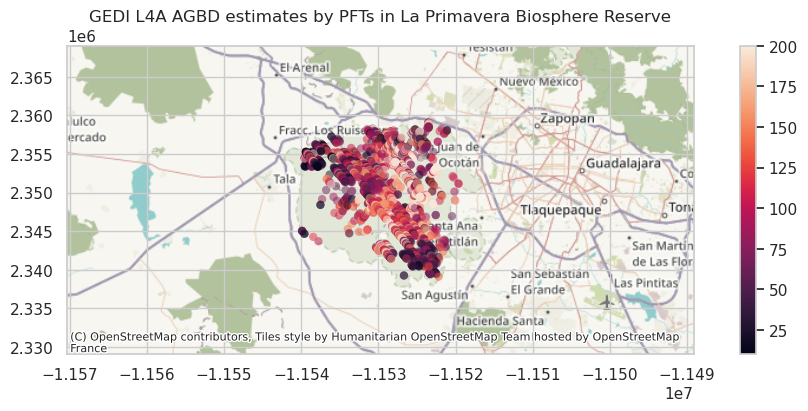
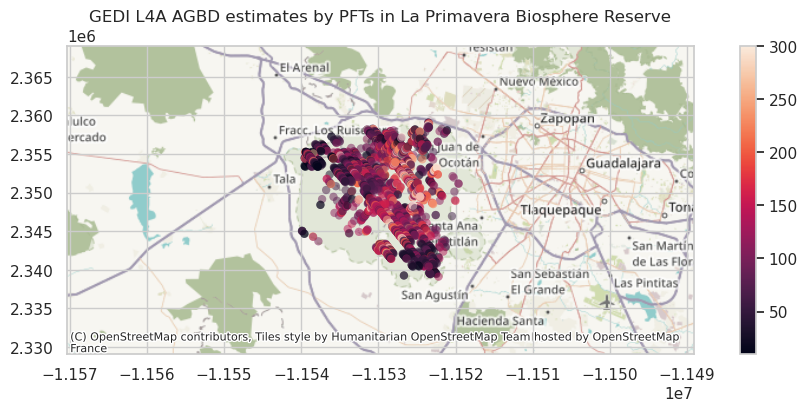
Built site for gh-pages

diff --git a/tutorials/science/gedi-l4a-agbd.html b/tutorials/science/gedi-l4a-agbd.html
@@ -402,18 +402,17 @@ pre > code.sourceCode > span > a:first-child::before { text-decoration: underlin
 <section id="import-modules" class="level2">
 <h2 class="anchored" data-anchor-id="import-modules">Import Modules</h2>
 <div class="cell" data-tags="[]" data-execution_count="1">
-<div class="sourceCode cell-code" id="cb2"><pre class="sourceCode python code-with-copy"><code class="sourceCode python"><span id="cb2-1"><a href="#cb2-1" aria-hidden="true" tabindex="-1"></a><span class="co"># import python modules</span></span>
-<span id="cb2-2"><a href="#cb2-2" aria-hidden="true" tabindex="-1"></a><span class="im">import</span> h5py</span>
-<span id="cb2-3"><a href="#cb2-3" aria-hidden="true" tabindex="-1"></a><span class="im">import</span> requests <span class="im">as</span> re</span>
-<span id="cb2-4"><a href="#cb2-4" aria-hidden="true" tabindex="-1"></a><span class="im">import</span> pandas <span class="im">as</span> pd</span>
-<span id="cb2-5"><a href="#cb2-5" aria-hidden="true" tabindex="-1"></a><span class="im">import</span> geopandas <span class="im">as</span> gpd</span>
-<span id="cb2-6"><a href="#cb2-6" aria-hidden="true" tabindex="-1"></a><span class="im">import</span> contextily <span class="im">as</span> ctx</span>
-<span id="cb2-7"><a href="#cb2-7" aria-hidden="true" tabindex="-1"></a><span class="im">import</span> matplotlib.pyplot <span class="im">as</span> plt</span>
-<span id="cb2-8"><a href="#cb2-8" aria-hidden="true" tabindex="-1"></a><span class="im">from</span> datetime <span class="im">import</span> datetime</span>
-<span id="cb2-9"><a href="#cb2-9" aria-hidden="true" tabindex="-1"></a><span class="im">from</span> glob <span class="im">import</span> glob</span>
-<span id="cb2-10"><a href="#cb2-10" aria-hidden="true" tabindex="-1"></a><span class="im">from</span> harmony <span class="im">import</span> Client, Collection, Environment, Request</span>
-<span id="cb2-11"><a href="#cb2-11" aria-hidden="true" tabindex="-1"></a><span class="im">import</span> seaborn <span class="im">as</span> sns</span>
-<span id="cb2-12"><a href="#cb2-12" aria-hidden="true" tabindex="-1"></a>sns.<span class="bu">set</span>(style<span class="op">=</span><span class="st">'whitegrid'</span>)</span></code><button title="Copy to Clipboard" class="code-copy-button"><i class="bi"></i></button></pre></div>
+<div class="sourceCode cell-code" id="cb2"><pre class="sourceCode python code-with-copy"><code class="sourceCode python"><span id="cb2-1"><a href="#cb2-1" aria-hidden="true" tabindex="-1"></a><span class="im">import</span> h5py</span>
+<span id="cb2-2"><a href="#cb2-2" aria-hidden="true" tabindex="-1"></a><span class="im">import</span> requests <span class="im">as</span> re</span>
+<span id="cb2-3"><a href="#cb2-3" aria-hidden="true" tabindex="-1"></a><span class="im">import</span> pandas <span class="im">as</span> pd</span>
+<span id="cb2-4"><a href="#cb2-4" aria-hidden="true" tabindex="-1"></a><span class="im">import</span> geopandas <span class="im">as</span> gpd</span>
+<span id="cb2-5"><a href="#cb2-5" aria-hidden="true" tabindex="-1"></a><span class="im">import</span> contextily <span class="im">as</span> ctx</span>
+<span id="cb2-6"><a href="#cb2-6" aria-hidden="true" tabindex="-1"></a><span class="im">import</span> matplotlib.pyplot <span class="im">as</span> plt</span>
+<span id="cb2-7"><a href="#cb2-7" aria-hidden="true" tabindex="-1"></a><span class="im">from</span> datetime <span class="im">import</span> datetime</span>
+<span id="cb2-8"><a href="#cb2-8" aria-hidden="true" tabindex="-1"></a><span class="im">from</span> glob <span class="im">import</span> glob</span>
+<span id="cb2-9"><a href="#cb2-9" aria-hidden="true" tabindex="-1"></a><span class="im">from</span> harmony <span class="im">import</span> Client, Collection, Environment, Request</span>
+<span id="cb2-10"><a href="#cb2-10" aria-hidden="true" tabindex="-1"></a><span class="im">import</span> seaborn <span class="im">as</span> sns</span>
+<span id="cb2-11"><a href="#cb2-11" aria-hidden="true" tabindex="-1"></a>sns.<span class="bu">set</span>(style<span class="op">=</span><span class="st">'whitegrid'</span>)</span></code><button title="Copy to Clipboard" class="code-copy-button"><i class="bi"></i></button></pre></div>
 </div>
 </section>
 <section id="authentication" class="level2">
@@ -441,7 +440,7 @@ pre > code.sourceCode > span > a:first-child::before { text-decoration: underlin
 <div class="cell" data-tags="[]" data-execution_count="4">
 <div class="sourceCode cell-code" id="cb7"><pre class="sourceCode python code-with-copy"><code class="sourceCode python"><span id="cb7-1"><a href="#cb7-1" aria-hidden="true" tabindex="-1"></a>collection <span class="op">=</span> Collection(<span class="bu">id</span><span class="op">=</span>concept_id)</span>
 <span id="cb7-2"><a href="#cb7-2" aria-hidden="true" tabindex="-1"></a><span class="co"># gedi beams</span></span>
-<span id="cb7-3"><a href="#cb7-3" aria-hidden="true" tabindex="-1"></a>beams <span class="op">=</span> [<span class="st">'BEAM0000'</span>, <span class="st">'BEAM0001'</span>, <span class="st">'BEAM0010'</span>, <span class="st">'BEAM0011'</span>, <span class="st">'BEAM0101'</span>,<span class="st">'BEAM0110'</span>,<span class="st">'BEAM1000'</span>,<span class="st">'BEAM1011'</span>]</span>
+<span id="cb7-3"><a href="#cb7-3" aria-hidden="true" tabindex="-1"></a>beams <span class="op">=</span> [<span class="st">'BEAM0000'</span>, <span class="st">'BEAM0001'</span>, <span class="st">'BEAM0010'</span>, <span class="st">'BEAM0011'</span>, <span class="st">'BEAM0101'</span>, <span class="st">'BEAM0110'</span>, <span class="st">'BEAM1000'</span>, <span class="st">'BEAM1011'</span>]</span>
 <span id="cb7-4"><a href="#cb7-4" aria-hidden="true" tabindex="-1"></a><span class="co"># gedi variables</span></span>
 <span id="cb7-5"><a href="#cb7-5" aria-hidden="true" tabindex="-1"></a><span class="bu">vars</span> <span class="op">=</span> [<span class="st">'agbd'</span>, <span class="st">'l4_quality_flag'</span>, <span class="st">'elev_lowestmode'</span>, <span class="st">'land_cover_data/pft_class'</span>]</span>
 <span id="cb7-6"><a href="#cb7-6" aria-hidden="true" tabindex="-1"></a><span class="co"># combine variables and beams</span></span>
@@ -451,7 +450,7 @@ pre > code.sourceCode > span > a:first-child::before { text-decoration: underlin
 </div>
 <p>We will use the spatial extent of a <a href="https://en.wikipedia.org/wiki/La_Primavera_Biosphere_Reserve">La Primavera Biosphere Reserve</a> provided as a GeoJSON file at <code>bosque_primavera.json</code>. Let’s open this file and compute its bound.</p>
 <div class="cell" data-tags="[]" data-execution_count="5">
-<div class="sourceCode cell-code" id="cb8"><pre class="sourceCode python code-with-copy"><code class="sourceCode python"><span id="cb8-1"><a href="#cb8-1" aria-hidden="true" tabindex="-1"></a>poly_json <span class="op">=</span> <span class="st">'bosque_primavera.json'</span></span>
+<div class="sourceCode cell-code" id="cb8"><pre class="sourceCode python code-with-copy"><code class="sourceCode python"><span id="cb8-1"><a href="#cb8-1" aria-hidden="true" tabindex="-1"></a>poly_json <span class="op">=</span> <span class="st">'../data-access/bosque_primavera.json'</span></span>
 <span id="cb8-2"><a href="#cb8-2" aria-hidden="true" tabindex="-1"></a>poly <span class="op">=</span> gpd.read_file(poly_json) </span>
 <span id="cb8-3"><a href="#cb8-3" aria-hidden="true" tabindex="-1"></a>ax<span class="op">=</span>poly.to_crs(epsg<span class="op">=</span><span class="dv">3857</span>).plot(figsize<span class="op">=</span>(<span class="dv">10</span>, <span class="dv">4</span>), alpha<span class="op">=</span><span class="fl">0.4</span>, color<span class="op">=</span><span class="st">'blue'</span>, edgecolor<span class="op">=</span><span class="st">'red'</span>)</span>
 <span id="cb8-4"><a href="#cb8-4" aria-hidden="true" tabindex="-1"></a>plt.margins(y<span class="op">=</span><span class="fl">0.5</span>, x<span class="op">=</span><span class="fl">1.5</span>)</span>
@@ -724,7 +723,7 @@ Job is running with errors.
 <span id="cb13-18"><a href="#cb13-18" aria-hidden="true" tabindex="-1"></a>gdf <span class="op">=</span> gpd.GeoDataFrame(subset_df, geometry<span class="op">=</span>gpd.points_from_xy(subset_df.lon_lowestmode, subset_df.lat_lowestmode))</span>
 <span id="cb13-19"><a href="#cb13-19" aria-hidden="true" tabindex="-1"></a>gdf.crs<span class="op">=</span><span class="st">"EPSG:4326"</span></span>
 <span id="cb13-20"><a href="#cb13-20" aria-hidden="true" tabindex="-1"></a><span class="co"># ax1=gdf_epsg3857.plot(color='white', alpha=0.3, linewidth=5, )</span></span>
-<span id="cb13-21"><a href="#cb13-21" aria-hidden="true" tabindex="-1"></a>ax1<span class="op">=</span> gdf.to_crs(epsg<span class="op">=</span><span class="dv">3857</span>)[mask].plot(column<span class="op">=</span><span class="st">'agbd'</span>, alpha<span class="op">=</span><span class="fl">0.5</span>, vmax<span class="op">=</span><span class="dv">200</span>, </span>
+<span id="cb13-21"><a href="#cb13-21" aria-hidden="true" tabindex="-1"></a>ax1<span class="op">=</span> gdf.to_crs(epsg<span class="op">=</span><span class="dv">3857</span>)[mask].plot(column<span class="op">=</span><span class="st">'agbd'</span>, alpha<span class="op">=</span><span class="fl">0.5</span>, vmax<span class="op">=</span><span class="dv">300</span>, </span>
 <span id="cb13-22"><a href="#cb13-22" aria-hidden="true" tabindex="-1"></a>                                                      linewidth<span class="op">=</span><span class="dv">0</span>, legend<span class="op">=</span><span class="va">True</span>, figsize<span class="op">=</span>(<span class="dv">12</span>, <span class="dv">4</span>))</span>
 <span id="cb13-23"><a href="#cb13-23" aria-hidden="true" tabindex="-1"></a>plt.margins(y<span class="op">=</span><span class="fl">0.5</span>, x<span class="op">=</span><span class="fl">1.5</span>)</span>
 <span id="cb13-24"><a href="#cb13-24" aria-hidden="true" tabindex="-1"></a>plt.title(<span class="st">'GEDI L4A AGBD estimates by PFTs in La Primavera Biosphere Reserve'</span>)</span>
@@ -744,6 +743,20 @@ Job is running with errors.
 <span id="cb14-7"><a href="#cb14-7" aria-hidden="true" tabindex="-1"></a>plt.show()</span></code><button title="Copy to Clipboard" class="code-copy-button"><i class="bi"></i></button></pre></div>
 <div class="cell-output cell-output-display">
 <p><img src="gedi-l4a-agbd_files/figure-html/cell-10-output-1.png" class="img-fluid"></p>
+</div>
+</div>
+<p>Let’s also plot how the AGBD is distributed across elevation ranges for different PFTs.</p>
+<div class="cell" data-tags="[]" data-execution_count="10">
+<div class="sourceCode cell-code" id="cb15"><pre class="sourceCode python code-with-copy"><code class="sourceCode python"><span id="cb15-1"><a href="#cb15-1" aria-hidden="true" tabindex="-1"></a>gdf[<span class="st">'elev_bin'</span>]<span class="op">=</span>pd.cut(gdf[<span class="st">'elev_lowestmode'</span>], bins <span class="op">=</span><span class="bu">range</span>(<span class="dv">1000</span>, <span class="dv">3000</span>, <span class="dv">200</span>))</span>
+<span id="cb15-2"><a href="#cb15-2" aria-hidden="true" tabindex="-1"></a>g <span class="op">=</span> sns.catplot(x <span class="op">=</span> <span class="st">"elev_bin"</span>, y <span class="op">=</span> <span class="st">"agbd"</span>, data <span class="op">=</span> gdf[mask], col<span class="op">=</span><span class="st">"pft_class"</span>, kind<span class="op">=</span><span class="st">"box"</span>)</span>
+<span id="cb15-3"><a href="#cb15-3" aria-hidden="true" tabindex="-1"></a>g.set_xticklabels(rotation<span class="op">=</span><span class="dv">90</span>)</span>
+<span id="cb15-4"><a href="#cb15-4" aria-hidden="true" tabindex="-1"></a>g.set_titles(<span class="st">"</span><span class="sc">{col_name}</span><span class="st">"</span>)</span>
+<span id="cb15-5"><a href="#cb15-5" aria-hidden="true" tabindex="-1"></a><span class="cf">for</span> ax <span class="kw">in</span> g.axes.flat:</span>
+<span id="cb15-6"><a href="#cb15-6" aria-hidden="true" tabindex="-1"></a>    ax.set_title(pft_legend[<span class="bu">int</span>(<span class="bu">float</span>(ax.get_title()))])</span>
+<span id="cb15-7"><a href="#cb15-7" aria-hidden="true" tabindex="-1"></a>g.set_axis_labels(<span class="st">"Elevation (m)"</span>)</span>
+<span id="cb15-8"><a href="#cb15-8" aria-hidden="true" tabindex="-1"></a>sns.despine(top<span class="op">=</span><span class="va">False</span>, right<span class="op">=</span><span class="va">False</span>, left<span class="op">=</span><span class="va">False</span>, bottom<span class="op">=</span><span class="va">False</span>, offset<span class="op">=</span><span class="va">None</span>, trim<span class="op">=</span><span class="va">False</span>)</span></code><button title="Copy to Clipboard" class="code-copy-button"><i class="bi"></i></button></pre></div>
+<div class="cell-output cell-output-display">
+<p><img src="gedi-l4a-agbd_files/figure-html/cell-11-output-1.png" class="img-fluid"></p>
 </div>
 </div>
 <p>Additional tutorials on discovering, accessing, and using GEDI Level 3 and Level 4 data products are available at https://github.com/ornldaac/gedi_tutorials.</p>

diff --git a/tutorials/jupyterhub_demo/jupyterhub_demo.html b/tutorials/jupyterhub_demo/jupyterhub_demo.html
@@ -325,7 +325,7 @@ ul.task-list li input[type="checkbox"] {
 </header>
 
 <p>Author: Tasha Snow</p>
-<p><code>rsghswsbspwd Learning Objectives - **Learn how to access and use the Openscapes JupyterHub**  - **Open the JupyterHub and clone the Openscapes Espacio and Sostenibilidad Colloquium repository**</code></p>
+<p><code>hjvroymilguz Learning Objectives - **Learn how to access and use the Openscapes JupyterHub**  - **Open the JupyterHub and clone the Openscapes Espacio and Sostenibilidad Colloquium repository**</code></p>
 <section id="access-the-cryocloud-powerpoint-whenever-you-need-to-reference-it" class="level2">
 <h2 class="anchored" data-anchor-id="access-the-cryocloud-powerpoint-whenever-you-need-to-reference-it">Access the <a href="https://bit.ly/4785hMv">CryoCloud powerpoint</a> whenever you need to reference it</h2>
 <p>Open the powerpoint by directly clicking on the hyperlink above or to open it in the Openscapes Linux Desktop web browser as follows: - Copy this hyperlink: <code>https://bit.ly/4785hMv</code> - Click on the plus (<code>+</code>) sign in the <code>File Browser</code> to the left to open a <code>Launcher</code> window - Under Notebooks, click on <code>Desktop</code> to access the Linux Desktop. This will open a new tab. - Click on the <code>Web Browser</code> tool (globe) at the bottom of the screen - Paste the url into the search bar</p>
@@ -336,7 +336,7 @@ ul.task-list li input[type="checkbox"] {
 <ol type="1">
 <li>Scroll through the server sizes. Stick with the 3.7Gb server (the default).</li>
 </ol>
-<p>```rsghswsbspwd Tip <strong>Be realistic about the max memory you will need. The amount you select, you are guaranteed, but if you use more you risk crashing your server for you and anyone else who is sharing with you. If you crash the server, it just requires logging out and reopening it, but it could be annoying for everyone.</strong></p>
+<p>```hjvroymilguz Tip <strong>Be realistic about the max memory you will need. The amount you select, you are guaranteed, but if you use more you risk crashing your server for you and anyone else who is sharing with you. If you crash the server, it just requires logging out and reopening it, but it could be annoying for everyone.</strong></p>
 <p><strong>Check your memory usage at the bottom in the middle of the screen.</strong></p>
 <pre><code>
 2) Choose the Python programming language.
